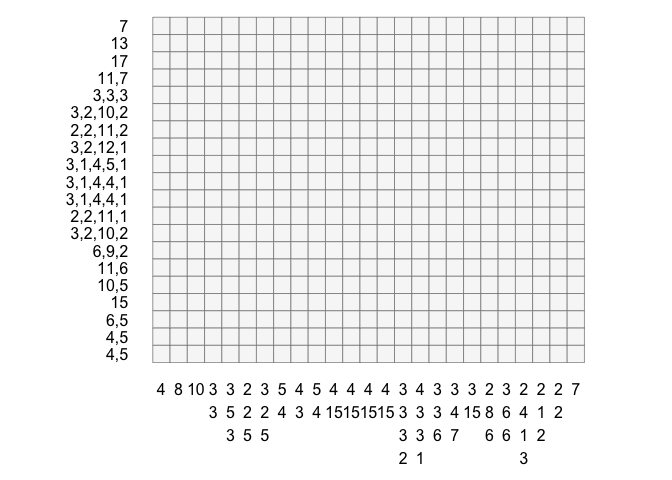
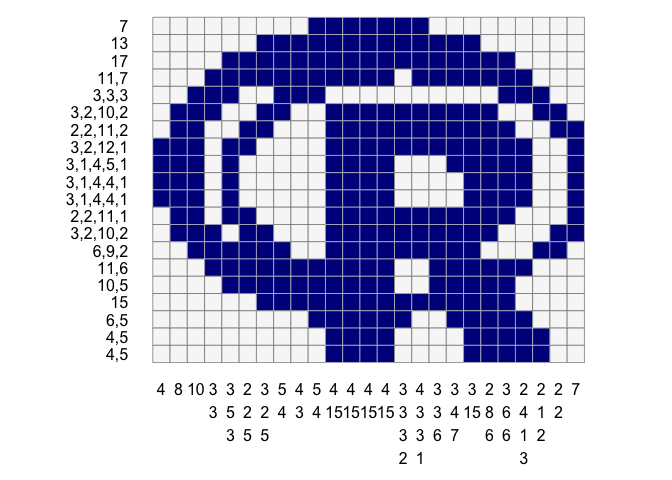
updated documentation

Changed region(s): [[0.2188, 0.0312, 0.875, 0.7812]]

diff --git a/README.md b/README.md
@@ -92,16 +92,32 @@ puzzle
 #> [1] "7:13:17:11,7:3,3,3:3,2,10,2:2,2,11,2:3,2,12,1:3,1,4,5,1:3,1,4,4,1:3,1,4,4,1:2,2,11,1:3,2,10,2:6,9,2:11,6:10,5:15:6,5:4,5:4,5-4:8:10:3,3:3,5,3:2,2,5:3,2,5:5,4:4,3:5,4:4,15:4,15:4,15:4,15:3,3,3,2:4,3,3,1:3,3,6:3,4,7:3,15:2,8,6:3,6,6:2,4,1,3:2,1,2:2,2:7"
 
 puzzle %>%
-  create_puzzle_plot()
-```
-
-![](figures/all-in-one-1.png)<!-- -->
-
-``` r
-
-puzzle %>%
   solve_puzzle() %>%
   create_puzzle_plot(puzzle, ., show_clues=TRUE)
 ```
 
-![](figures/all-in-one-2.png)<!-- -->
+![](figures/all-in-one-1.png)<!-- -->
+
+### Create your own puzzles
+
+To make, print and solve your own nonograms, you just need to create a
+*puzzle string*.
+
+The `puzzle string` format used to define puzzles is quite simple:
+
+  - the numbers for each clue are separated by a comma
+  - each clue is separated by a colon
+  - the clues for the rows come first, then a dash, then the clues for
+    the columns
+  - row clues are read from left to right
+  - column clues are read from top to bottom
+
+<!-- end list -->
+
+``` r
+puzzle_string <- "3:1:1,1-3:1:1,1"
+solution      <- solve_puzzle(puzzle_string)
+create_puzzle_plot(puzzle_string, solution)
+```
+
+![](figures/create-your-own-1.png)<!-- -->
